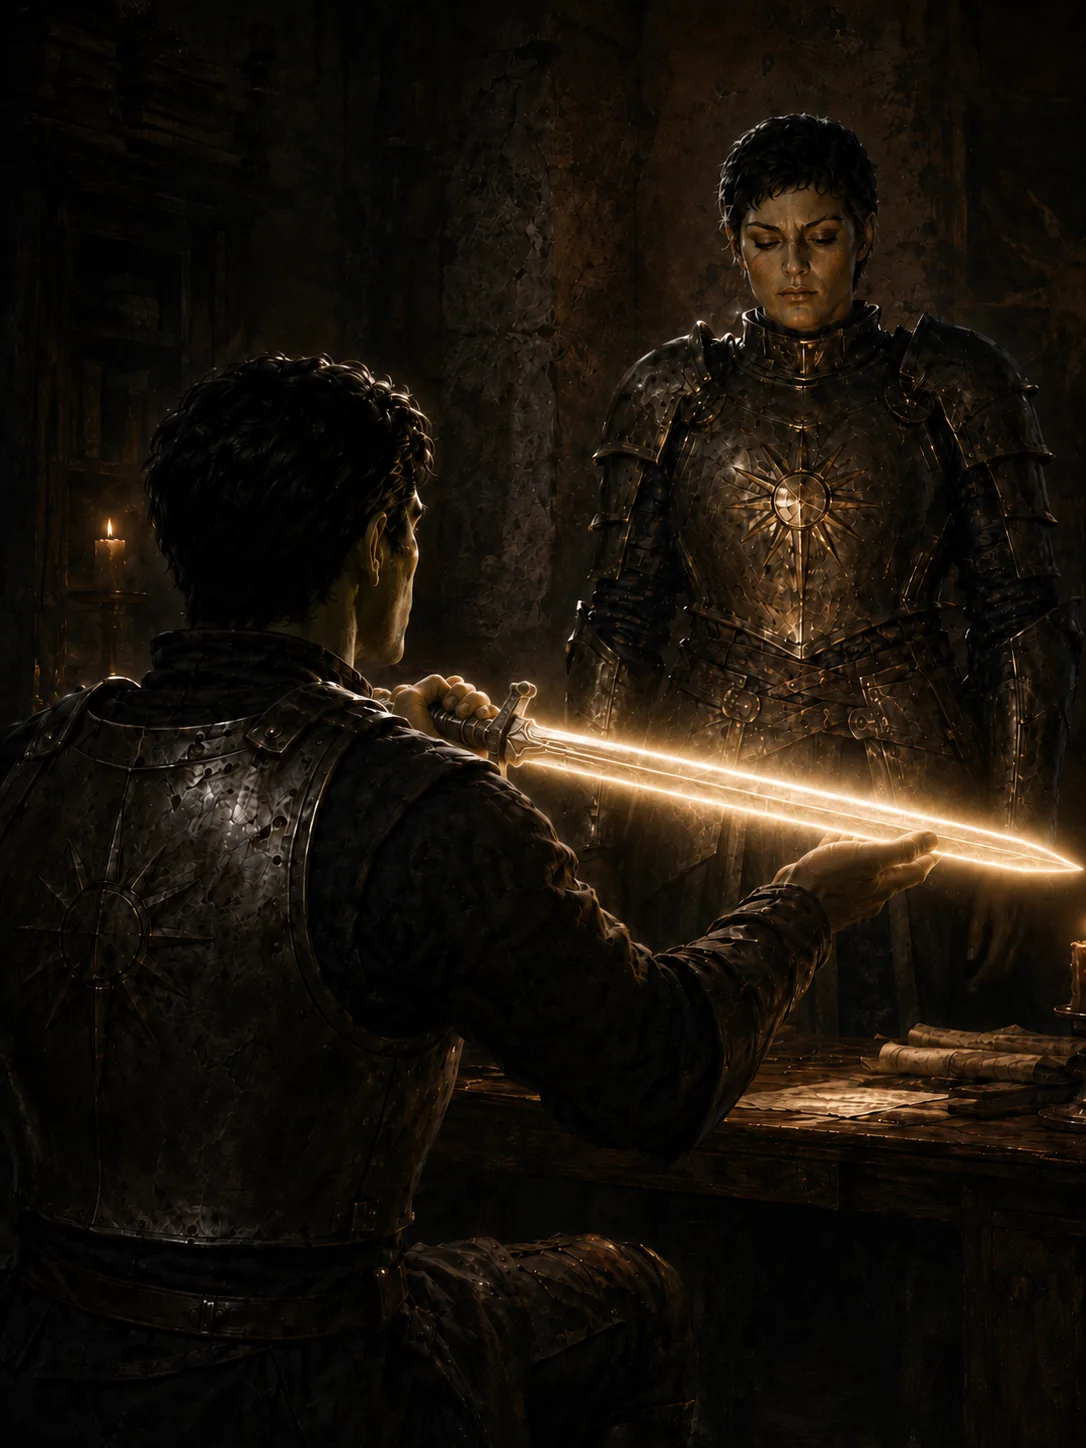
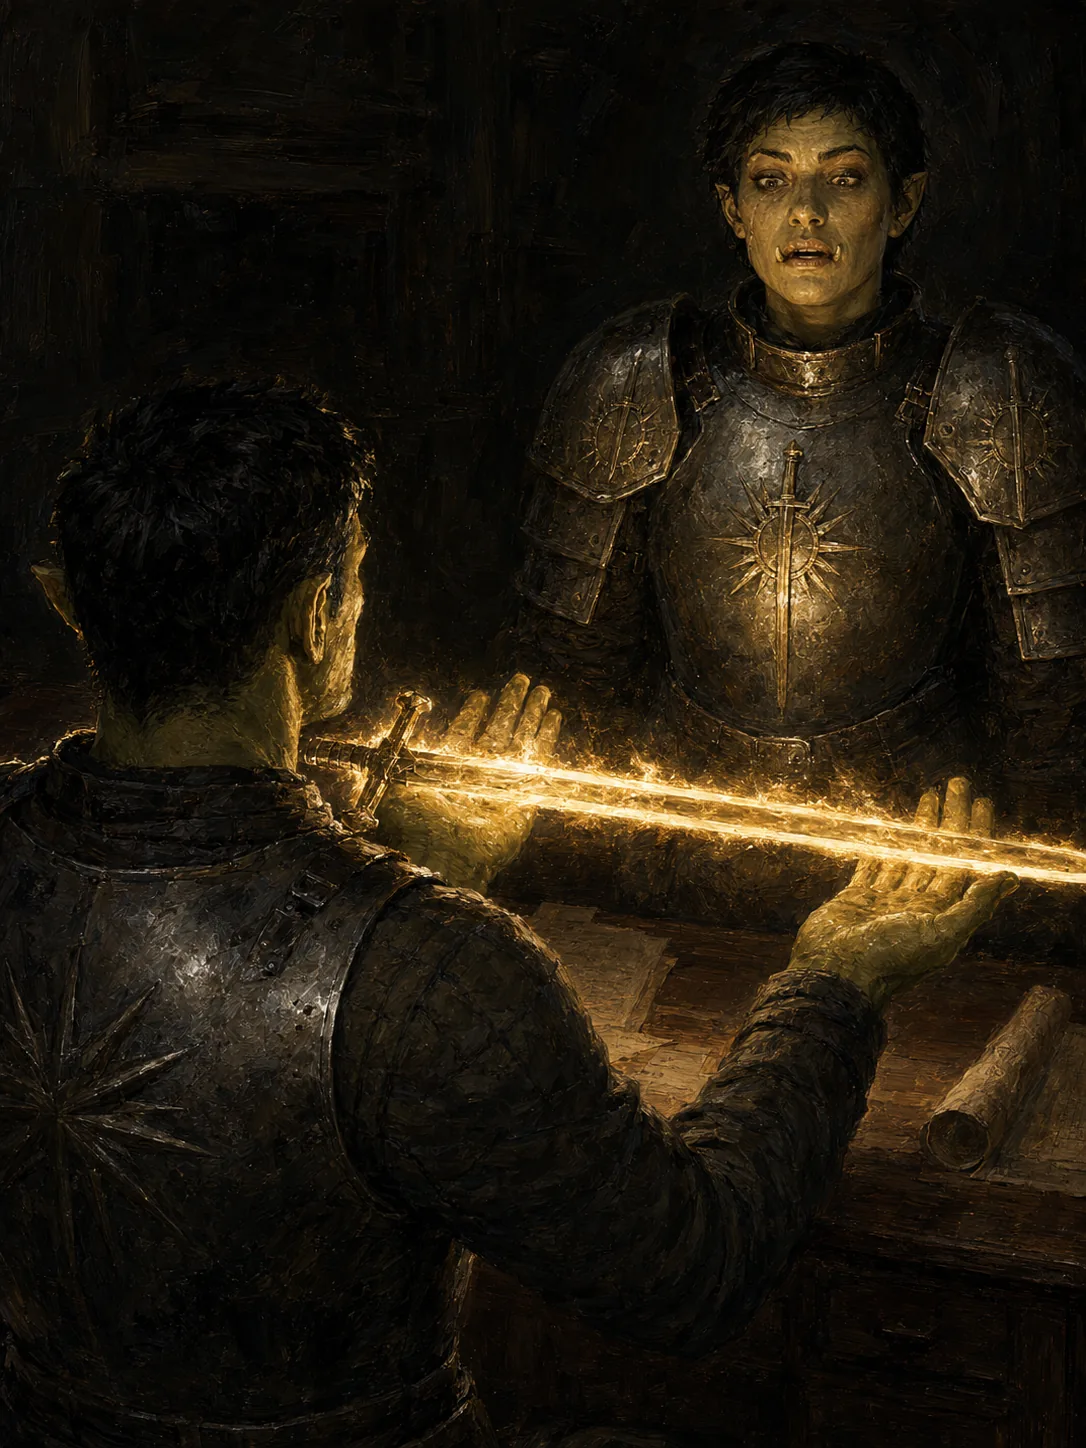
Re-roll the kindling of Radiance, and settle Harlock's Era I device
All four drifts fixed. Harlock is big and heavily built with a broad
back filling the lower left; his ear is subtly pointed, called out
because this framing shows it from behind; and his green skin is pinned
to the places the blade actually lights -- neck, ear, jaw and both
upturned hands under the blade -- which is what made it read at last.
Irabeth now carries open wonder rather than solemnity, eyeline locked on
the blade, tusks present, scar confirmed on her right cheek.

Matt's device ruling: Irabeth wears Iomedae's sword-and-sun, and
Harlock's Era I breastplate is salvaged and carries a bare starburst.
That keeps the kit guide's citation of this plate valid, and promotes
the bare sun from tolerated drift to canon with a reason -- a scavenged
breastplate wears whatever device was already on it, and he has not yet
been given the order's arms.

The kit guide was carrying a straight contradiction on this: the Era I
block said the sword-and-sun was on his chest in every era while the
Reconcile section said Book I shows a bare starburst. Both corrected,
with the sword-and-sun rule now stated as holding from the Book I
Epilogue forward, which is where it was always aimed.

Two devices in one frame needed contrasting explicitly -- each stated
positively and each one's wrong version excluded by name -- or they
converge. Both verified at magnification.

The re-roll list's To do section is now empty.

diff --git a/bible/07-art-reroll-list.md b/bible/07-art-reroll-list.md
@@ -20,35 +20,7 @@ with a counter-example.
 
 ## To do
 
-### `the-kindling-of-radiance.webp` — **both likenesses drifted**
-*Book I, Defender's Heart — Harlock speaks the Code of Iomedae, light climbs the dead blade and wakes
-it, and Irabeth looks on in wonder.*
-
-Matt's notes, and all four are in the render: **Harlock is too slim** — he is big and solidly built,
-and here he reads as a lean young man; **his ears are round human ears** rather than subtly tapered
-to a point; **Irabeth is far too solemn**, eyes downcast and flat, when the caption and the beat both
-want open wonder at a relic waking in front of her; and **Irabeth has no tusks** — hers are two small
-lower tusks jutting subtly upward, dignified and proud, and they are one of her likeness anchors.
-His green skin also does not read at all in this light. Attach **both** portraits and state each
-correction as an explicit negative as well as a positive; `round human ears` in particular is a known
-drift on Harlock and needs the Avoid line, not just the body.
-
-**Keep:** the composition is strong and the beat is right — the over-the-shoulder framing, the blade
-offered flat across both palms, the waking light as the only source in a dark room. The pose is not
-the problem.
-
-**Give Irabeth an eyeline and an inner state.** This is the *pasted-portrait* failure from the style
-guide: her face would work equally well cropped out as a standalone portrait, which is the test for a
-disengaged figure. She should be looking at the blade, not through it.
-
-**Two decisions to make before prompting:**
-- **The device.** The image is cited in `05-kit-and-timeline.md` under *Harlock's holy symbol
-  predates this rule* as one of the Book I plates showing a **bare starburst with no sword** — a
-  drift Matt decided to leave in place. A re-roll makes that citation stale either way: carry the
-  sword-and-sun (the rule for all new art) and drop this file from that list, or hold the bare
-  starburst to match its Book I neighbours and keep the citation. **Matt's call.**
-- ***Radiance* wakes in this scene**, so the blade blazing gold-white is correct here and only here —
-  everything earlier in Book I shows it dimmed and lightless.
+*Empty — every entry on this list has been re-rolled. Add new ones as they come up.*
 
 ---
 
@@ -65,6 +37,37 @@ Regenerate to the humble kit, or accept the drift and note it as accepted.
 ---
 
 ## Done
+
+### `the-kindling-of-radiance.webp` — re-rolled Aug 2026
+*Book I Ch. VI, Defender's Heart.*
+
+All four drifts fixed. **Harlock** is now big and heavily built — a broad thick back and wide heavy
+shoulders filling the lower left — with `a slim or slender kneeling man` and `narrow shoulders` in
+`Avoid:`; his ear is **subtly pointed** and, because this framing shows it from behind, that was
+called out specifically; and his **green skin was pinned to the places the blade actually lights** —
+neck, ear, jaw, and above all both upturned hands directly beneath the glowing blade, which is what
+finally made it read. **Irabeth** carries open, unguarded wonder — eyes wide, upper lids lifted,
+brows raised, lips parted, chin lifting — with her eyeline locked on the blade and a long exclusion
+list (`a solemn expression`, `downcast eyes`, `a composed dignified expression`, `looking past the
+sword`). Her two small upward lower tusks are present, and the scar is confirmed on **her** right
+cheek at magnification.
+
+**The device question is settled, and it settled a contradiction this file had been carrying.**
+Matt's ruling: **Irabeth wears Iomedae's sword-and-sun; Harlock's Era I breastplate is SALVAGED and
+carries a bare starburst.** So the kit guide's citation of this plate stays valid — no re-pointing
+needed — and the bare sun is now **canon with a reason** rather than tolerated drift: the breastplate
+wears whatever device was already on it, because he has not yet been given the order's arms. See
+`05-kit-and-timeline.md`, where the Era I block previously insisted the sword-and-sun was on his
+chest in *every* era while the *Reconcile* section said the opposite. **Both have been corrected.**
+
+**Two devices in one frame need contrasting explicitly, not just describing.** Each was stated
+positively and each one's *wrong* version excluded by name — `a sword ... on the kneeling man's
+breastplate` and `a bare starburst with no sword on the woman's armour` — because otherwise the two
+devices in a single picture converge. Both confirmed correct at magnification.
+
+**Also excluded the old plate's candle**, which had been competing with the blade; `a second light
+source` in `Avoid:` leaves the waking sword as the room's only light, which is what the entry asked
+for.
 
 ### `the-blessing-of-the-dawn.webp` — re-rolled Aug 2026
 *Book I, the gates of Defender's Heart.*

diff --git a/bible/05-kit-and-timeline.md b/bible/05-kit-and-timeline.md
@@ -44,14 +44,20 @@ inline (Harlock's *Radiance*, from its recovery onward; Lupenor's bow, her const
 
 ### Harlock Greyforge
 ![Harlock's Era I kit — the dimmed blade, the plain breastplate.](../images/the-dimmed-blade.webp)
-- **Armor:** a plain, battered **steel breastplate bearing Iomedae's holy symbol — a
-  vertical sword, point down, in front of a blazing sun** — over a padded gambeson.
+- **Armor:** a plain, battered, **SALVAGED steel breastplate** over a padded gambeson.
   **NO pauldrons, gauntlets, greaves, or filigree. NO golden plate** — that is his
-  much-later look. The sword-and-sun is on his chest in **every** era; only the armor
-  under it changes.
-- **Shield:** a basic **scavenged wooden shield**, likewise blazoned with the
-  sword-and-sun (unnamed; the device is Iomedae's, not a relic). **He carries this only
-  through Era I — it is replaced in the Book I Epilogue; see Era II.**
+  much-later look.
+- **His device in Era I is a BARE STARBURST — a plain stylised sun with NO sword in front
+  of it.** *(Matt's ruling, Aug 2026, settling a contradiction this file used to carry.)*
+  **The breastplate is scavenged, so it wears whatever device was already on it** — he is
+  not yet a knight of the order and has not yet been given its arms. From the **Book I
+  Epilogue** onward the **sword-and-sun** is his constant on every breastplate and every
+  shield; before it, this bare sun is correct and is **not** a drift to be fixed.
+  *(This supersedes the old line here that "the sword-and-sun is on his chest in every era",
+  which contradicted both the shipped Book I art and the* Reconcile *section below.)*
+- **Shield:** a basic **scavenged wooden shield**, likewise bearing the bare starburst
+  (unnamed; not a relic). **He carries this only through Era I — it is replaced in the
+  Book I Epilogue; see Era II.**
 - **Weapon:** **fluid before the middle of Ch. IV** — in the earliest undercity scenes he
   fights with whatever he has (a glaive, a hammer, a plain sword); take it from the scene.
 - **Radiance:** he bears it **from "Radiance Reclaimed" (Book I, Ch. IV) onward** — a **dull,
@@ -331,5 +337,13 @@ Book I Epilogue. Every Harlock image made before it — the chest device in
 and the rest of Book I — shows a **bare starburst with no sword**, or no legible device at all.
 
 **Decided (Matt, July 2026): leave the prior art in place.** The bare starburst stands in the
-existing Book I images; the sword-and-sun holds from the Book I Epilogue forward, and **all new
-art carries it** without exception. Do not reopen this.
+existing Book I images; the sword-and-sun holds from the Book I Epilogue forward. Do not reopen this.
+
+**Upgraded from accepted drift to canon (Matt, Aug 2026).** This is no longer merely tolerated: the
+Era I breastplate is **salvaged**, so it carries whatever device was already on it, and Harlock has
+not yet been given the order's arms. **New Era I art therefore carries the BARE STARBURST too** —
+see the Era I block above. The re-rolled
+[`the-kindling-of-radiance`](../images/the-kindling-of-radiance.webp) is the exemplar, and it shows
+both devices in one frame: his bare sun, and **Irabeth's** full sword-and-sun opposite it.
+*(The older rule that "all new art carries the sword-and-sun without exception" holds from the Book I
+Epilogue forward, which is where it was always aimed — it was never meant to reach back into Era I.)*
